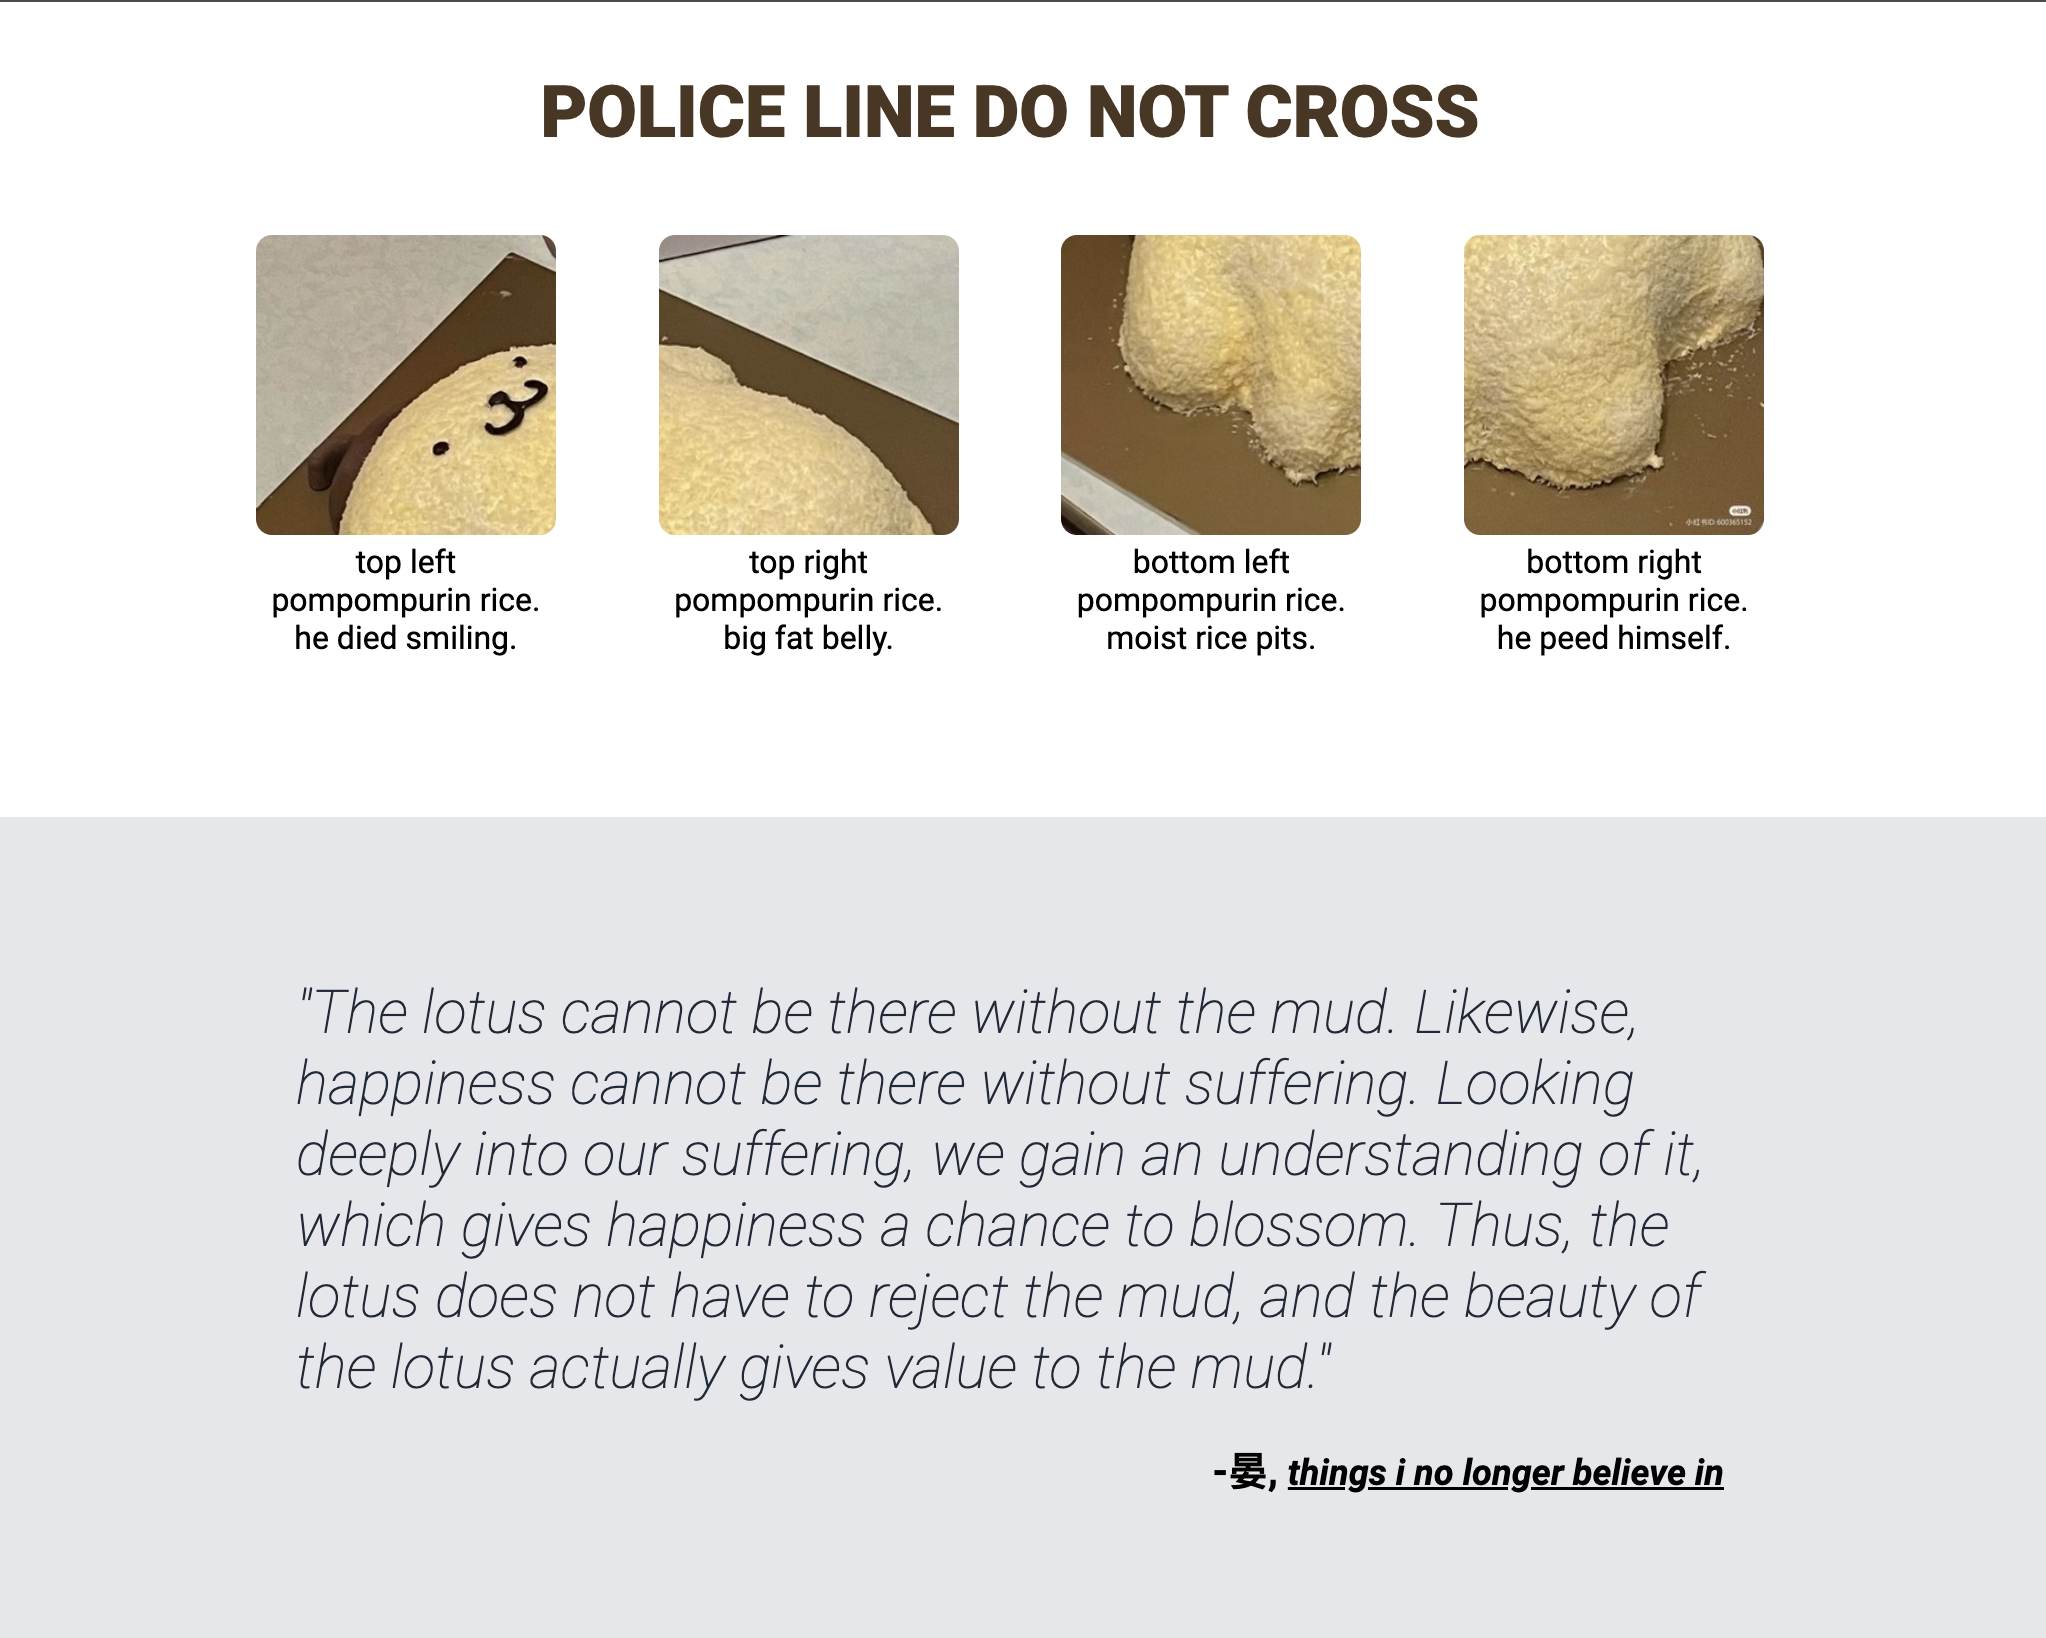
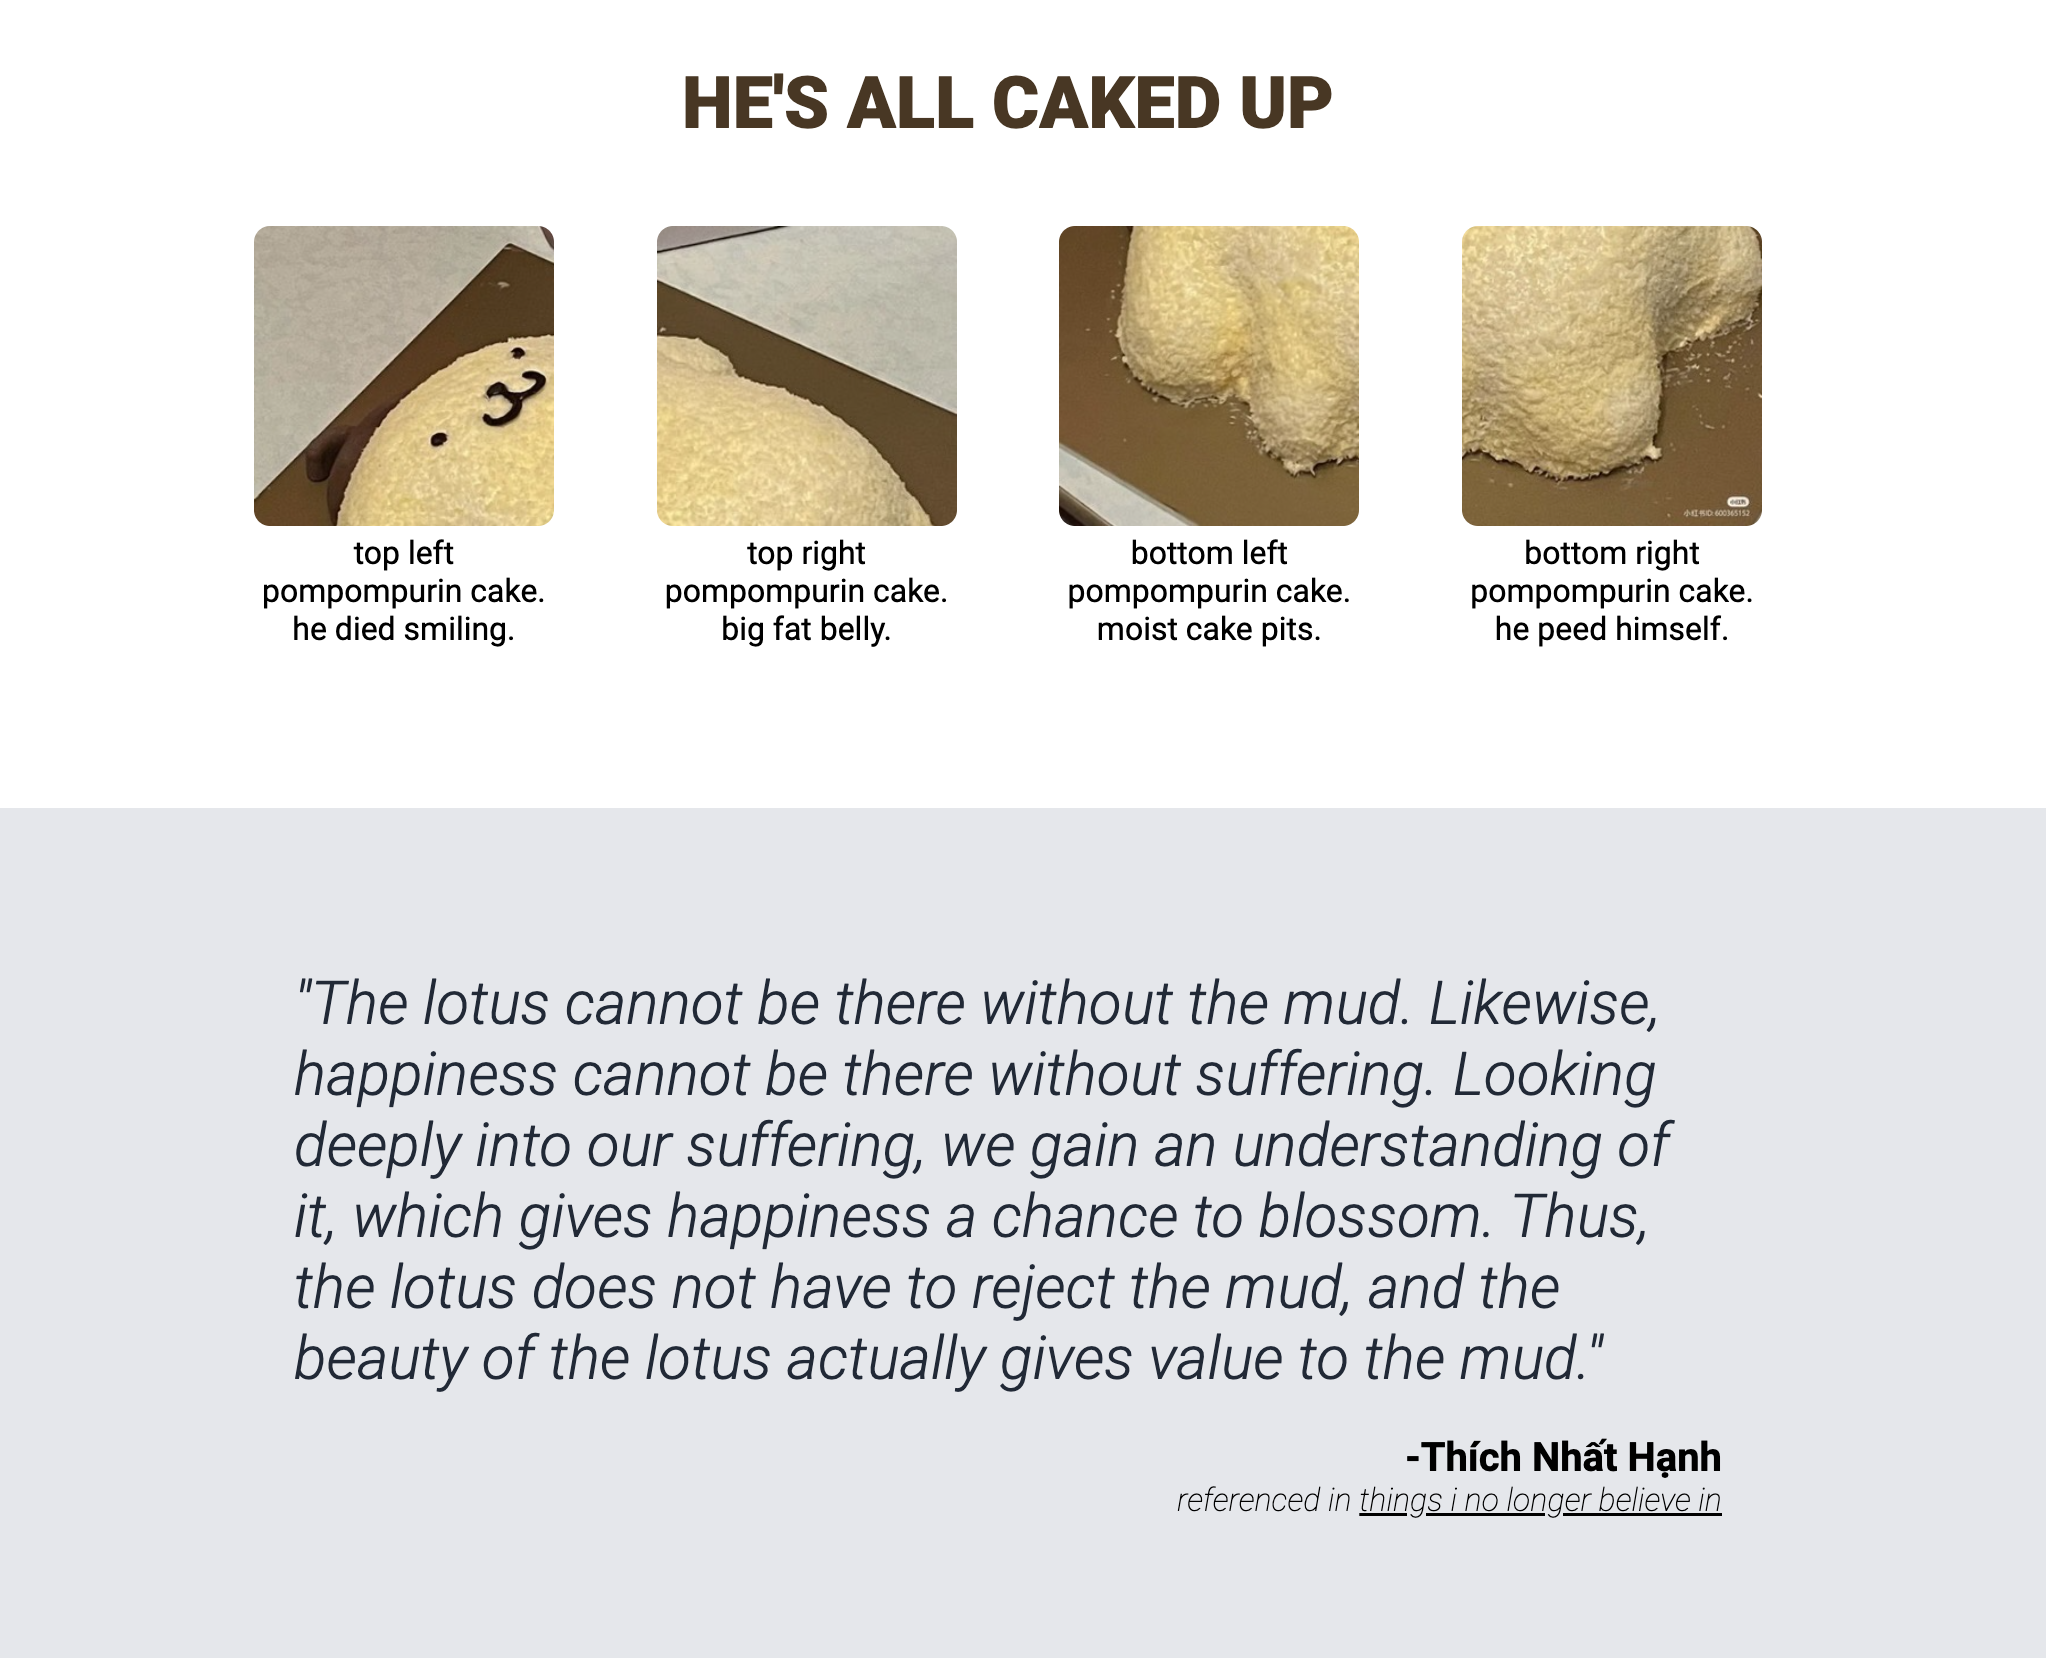
Updates content (final rev).
todo:
- clean styles.css

diff --git a/index.html b/index.html
@@ -13,7 +13,9 @@
 
   <div class="header">
     <div class="left">
-      ert tonez
+      <p class="erth">erth</p>
+      <p class="dot-separator">|</p>
+      <p>t◉nez</p>
     </div>
     <div class="right">
       <ul class="header-links">
@@ -35,7 +37,7 @@
         <p class="hero-main-text">Circlemaker meme of the day</p>
         <p class="hero-secondary-text"><em>I guess we doin philosophical conundrums now</em></p>
         <a href="https://knowyourmeme.com/memes/a-circle-in-the-triangle-factory-i-guess-we-doin-circles-now" target="_blank" rel="noopener noreferrer">
-          <button class="sign-up">Learn More</button>
+          <button class="sign-up">wdym by that</button>
         </a>
       </div>
     </div>
@@ -45,23 +47,23 @@
   </div>
 
   <div class="second-block">
-    <div class="gallery-header-text">POLICE LINE DO NOT CROSS</div>
+    <div class="gallery-header-text">HE'S ALL CAKED UP</div>
     <div class="gallery">
       <div class="gallery-item">
         <img src="./img/gallery-1.jpeg">
-        <p>top left pompompurin rice. he died smiling.</p>
+        <p>top left pompompurin cake. he died smiling.</p>
       </div>
       <div class="gallery-item">
         <img src="./img/gallery-2.jpeg">
-        <p>top right pompompurin rice. big fat belly.</p>
+        <p>top right pompompurin cake. big fat belly.</p>
       </div>
       <div class="gallery-item">
         <img src="./img/gallery-3.jpeg">
-        <p>bottom left pompompurin rice. moist rice pits.</p>
+        <p>bottom left pompompurin cake. moist cake pits.</p>
       </div>
       <div class="gallery-item">
         <img src="./img/gallery-4.jpeg">
-        <p>bottom right pompompurin rice. he peed himself.</p>
+        <p>bottom right pompompurin cake. he peed himself.</p>
       </div>
     </div>
   </div>
@@ -71,7 +73,8 @@
       <p>"The lotus cannot be there without the mud. Likewise, happiness cannot be there without suffering. Looking deeply into our suffering, we gain an understanding of it, which gives happiness a chance to blossom. Thus, the lotus does not have to reject the mud, and the beauty of the lotus actually gives value to the mud."</p>
     </div>
     <div class="quote-author">
-      <p>-晏, <a href="https://www.youtube.com/watch?v=4CaSXEEqKBU">things i no longer believe in</a></p>
+      <p>-Thích Nhất Hạnh</p>
+      <p class="text">referenced in <a href="https://www.youtube.com/watch?v=4CaSXEEqKBU" target="_blank" rel="noopener noreferrer">things i no longer believe in</a></p>
     </div>
   </div>
 
@@ -79,7 +82,7 @@
     <div class="cta-blob">
       <div class="left">
         <p class="cta-header">Attention!!!</p>
-        <p class="cta-description">I have cute cat. The name is beans.</p>
+        <p class="cta-description">meet cute. meet beans.</p>
       </div>
       <div class="right">
         <a href="https://open.spotify.com/playlist/4lYdn3XexaemLz06dPUMBx?si=f2439710245d43c0"
@@ -91,7 +94,7 @@
   </div>
 
   <div class="footer">
-    <a href="https://github.com/raffycastlee/odin-landing-page" target="_blank" rel="noopener noreferrer">github</a>
+    <a href="https://github.com/raffycastlee/odin-landing-page" target="_blank" rel="noopener noreferrer">> github.com/raffycastlee <</a>
   </div>
 
 </div>

diff --git a/style.css b/style.css
@@ -62,10 +62,20 @@ p {
 
 .header .left {
   display: flex;
+  flex-direction: row;
   flex-grow: 0;
   color: #f9faf8;
   font-size: 24px;
   font-weight: bold;
+  gap: 6px;
+}
+
+.left .erth {
+  padding-top: 4.5px;
+}
+
+.left .dot-separator {
+  padding-top: 3px;
 }
 
 .hero-main-text {
@@ -183,14 +193,21 @@ button.sign-up {
 .quote-author {
   margin-top: 20px;
   display: flex;
-  justify-content: right;
+  flex-direction: column;
+  text-align: right;
   font-size: 20px;
   font-weight: bold;
 }
 
+.quote-author .text {
+  font-size: 16px;
+  font-weight: 200;
+  font-style: italic;
+}
+
 .quote-author a {
   color: black;
-  font-weight: bold;
+  font-size: 16px;
   font-style: italic;
   text-decoration: underline;
 }

diff --git a/README.md b/README.md
@@ -1,13 +1,23 @@
-# odin-landing-page
+# css-landing-page
 
-me when i touch css for the first time
+me when i touch css for the first time. deployed [here](https://raffycastlee.github.io/.css-landing-page/). template/prompt from [the odin project's fullstack-js](https://www.theodinproject.com/paths/full-stack-javascript).
 
-screens:
+## todo
+- [x] finish header
+- [x] finish block-1
+- [x] finish block-2
+- [x] finish block-3
+- [x] finish block-4
+- [x] finish footer
+- [x] swaggify
+- [ ] clean up css
+
+## _screens_
 ![header and block-1](img/header-and-block-1.png)
-_Header and Block-1_
+<p align="center">_Header and Block-1_</p>
 
 ![block-2 and block-3](img/block-2-and-3.png)
-_Block-2 and Block-3_
+<p align="center">_Block-2 and Block-3_</p>
 
 ![block-4 and footer](img/block-4-and-footer.png)
-_Block-4 and Footer_
+<p align="center">_Block-4 and Footer_</p>
